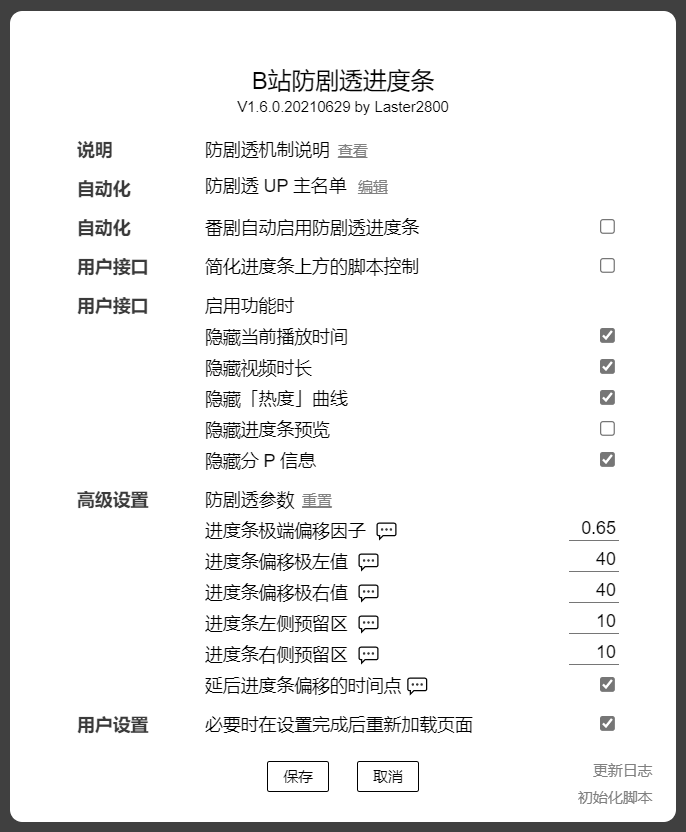
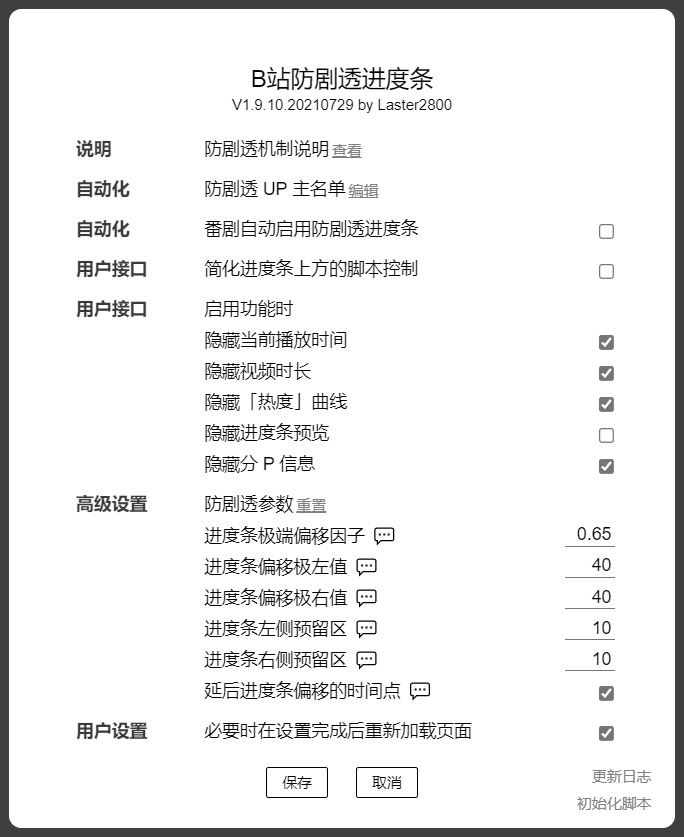
优化设置页布局

diff --git a/script/BilibiliNoSpoilProgressBar/BilibiliNoSpoilProgressBar.user.js b/script/BilibiliNoSpoilProgressBar/BilibiliNoSpoilProgressBar.user.js
@@ -1,6 +1,6 @@
 // ==UserScript==
 // @name            B站防剧透进度条
-// @version         1.9.9.20210728
+// @version         1.9.10.20210729
 // @namespace       laster2800
 // @author          Laster2800
 // @description     看比赛、看番总是被进度条剧透？装上这个脚本再也不用担心这些问题了
@@ -423,7 +423,7 @@
         })
 
         /**
-         * 设置页面初始化
+         * 设置页初始化
          */
         const initSetting = () => {
           gm.el.setting = gm.el.gmRoot.appendChild(document.createElement('div'))
@@ -444,7 +444,7 @@
                     <td>
                       <div>
                         <span>防剧透机制说明</span>
-                        <a class="gm-hint-option" title="查看脚本防剧透机制的实现原理。" href="${gm.url.gm_readme}#防剧透机制说明" target="_blank" style="color:var(--hint-text-color)">查看</a>
+                        <a class="gm-hint-option" title="查看脚本防剧透机制的实现原理。" href="${gm.url.gm_readme}#防剧透机制说明" target="_blank"">查看</a>
                       </div>
                     </td>
                   </tr>
@@ -452,8 +452,10 @@
                   <tr class="gm-item" title="加入防剧透名单 UP 主的视频，会在打开视自动开启防剧透进度条。">
                     <td><div>自动化</div></td>
                     <td>
-                      <span>防剧透 UP 主名单</span>
-                      <span id="gm-uploaderList" class="gm-hint-option">编辑</span>
+                      <div>
+                        <span>防剧透 UP 主名单</span>
+                        <span id="gm-uploaderList" class="gm-hint-option">编辑</span>
+                      </div>
                     </td>
                   </tr>
 
@@ -777,7 +779,7 @@
         }
 
         /**
-         * 处理与设置页面相关的数据和元素
+         * 处理与设置页相关的数据和元素
          */
         const processSettingItem = () => {
           const _self = this
@@ -2100,29 +2102,23 @@
           color: var(--hightlight-color);
         }
 
-        #${gm.id} .gm-setting label {
+        #${gm.id} .gm-setting td > * {
           display: flex;
-          align-items: center;
+          align-items: flex-end;
         }
         #${gm.id} .gm-setting input[type=checkbox] {
           margin-left: auto;
         }
         #${gm.id} .gm-setting input[type=text] {
-          float: right;
           border-width: 0 0 1px 0;
           width: 2.4em;
           text-align: right;
           padding: 0 0.2em;
-          margin: 0 -0.2em;
-        }
-        #${gm.id} .gm-setting select {
-          border-width: 0 0 1px 0;
-          cursor: pointer;
-          margin: 0 -0.2em;
+          margin-left: auto;
         }
 
         #${gm.id} .gm-setting .gm-information {
-          margin: 0 0.2em;
+          margin: 0 0.4em;
           cursor: pointer;
         }
         #${gm.id} .gm-setting [disabled] .gm-information {
@@ -2209,6 +2205,9 @@
           text-decoration: underline;
           padding: 0 0.2em;
           cursor: pointer;
+        }
+        #${gm.id} .gm-hint-option:visited {
+          color: var(--hint-text-color);
         }
         #${gm.id} .gm-hint-option:hover {
           color: var(--important-color);

diff --git a/script/BilibiliWatchlaterPlus/BilibiliWatchlaterPlus.user.js b/script/BilibiliWatchlaterPlus/BilibiliWatchlaterPlus.user.js
@@ -1,6 +1,6 @@
 // ==UserScript==
 // @name            B站稍后再看功能增强
-// @version         4.16.10.20210728
+// @version         4.16.11.20210729
 // @namespace       laster2800
 // @author          Laster2800
 // @description     与稍后再看功能相关，一切你能想到和想不到的功能
@@ -743,7 +743,7 @@
         })
 
         /**
-         * 设置页面初始化
+         * 设置页初始化
          */
         const initSetting = () => {
           gm.el.setting = gm.el.gmRoot.appendChild(document.createElement('div'))
@@ -1078,8 +1078,8 @@
                     <td>
                       <div>
                         <span>稍后再看列表数据本地缓存有效期（单位：秒）</span>
-                        <input id="gm-watchlaterListCacheValidPeriod" type="text">
                         <span id="gm-wlcvpInformation" class="gm-information" title>💬</span>
+                        <input id="gm-watchlaterListCacheValidPeriod" type="text">
                       </div>
                     </td>
                   </tr>
@@ -1391,7 +1391,7 @@
         }
 
         /**
-         * 处理与设置页面相关的数据和元素
+         * 处理与设置页相关的数据和元素
          */
         const processSettingItem = () => {
           const _self = this
@@ -4062,29 +4062,27 @@
           cursor: not-allowed;
         }
 
-        #${gm.id} .gm-setting label {
+        #${gm.id} .gm-setting td > * {
           display: flex;
-          align-items: center;
+          align-items: flex-end;
         }
         #${gm.id} .gm-setting input[type=checkbox] {
           margin-left: auto;
         }
         #${gm.id} .gm-setting input[type=text] {
-          float: right;
           border-width: 0 0 1px 0;
           width: 3.4em;
           text-align: right;
           padding: 0 0.2em;
-          margin: 0 -0.2em;
+          margin-left: auto;
         }
         #${gm.id} .gm-setting select {
           border-width: 0 0 1px 0;
           cursor: pointer;
-          margin: 0 -0.2em;
         }
 
         #${gm.id} .gm-setting .gm-information {
-          margin: 0 0.2em;
+          margin: 0 0.4em;
           cursor: pointer;
         }
         #${gm.id} .gm-setting [disabled] .gm-information {

diff --git a/script/BilibiliNoSpoilProgressBar/changelog.md b/script/BilibiliNoSpoilProgressBar/changelog.md
@@ -9,6 +9,7 @@
 3. 脚本：大幅简化页面切换处理流程。
 4. 脚本：优化 URL 匹配。
 5. UI：优化脚本控制的外观。
+6. UI：设置页布局优化。
 
 ## V1.8
 
